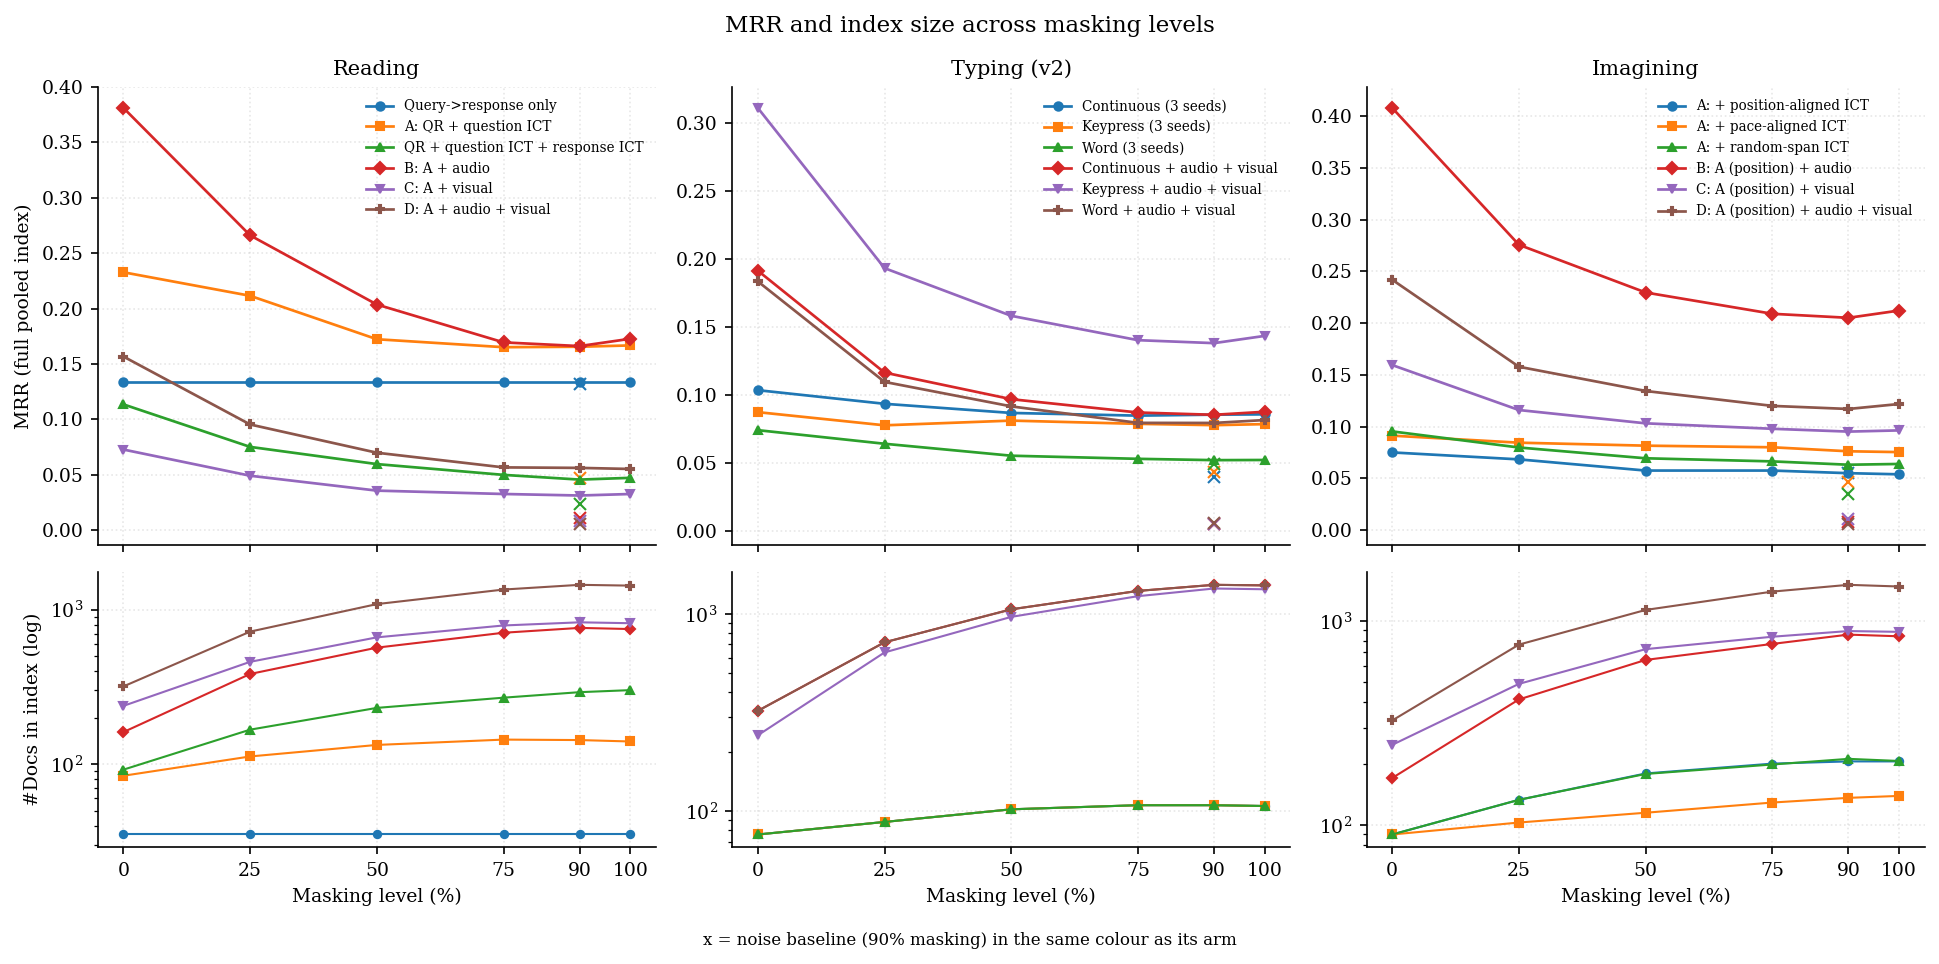
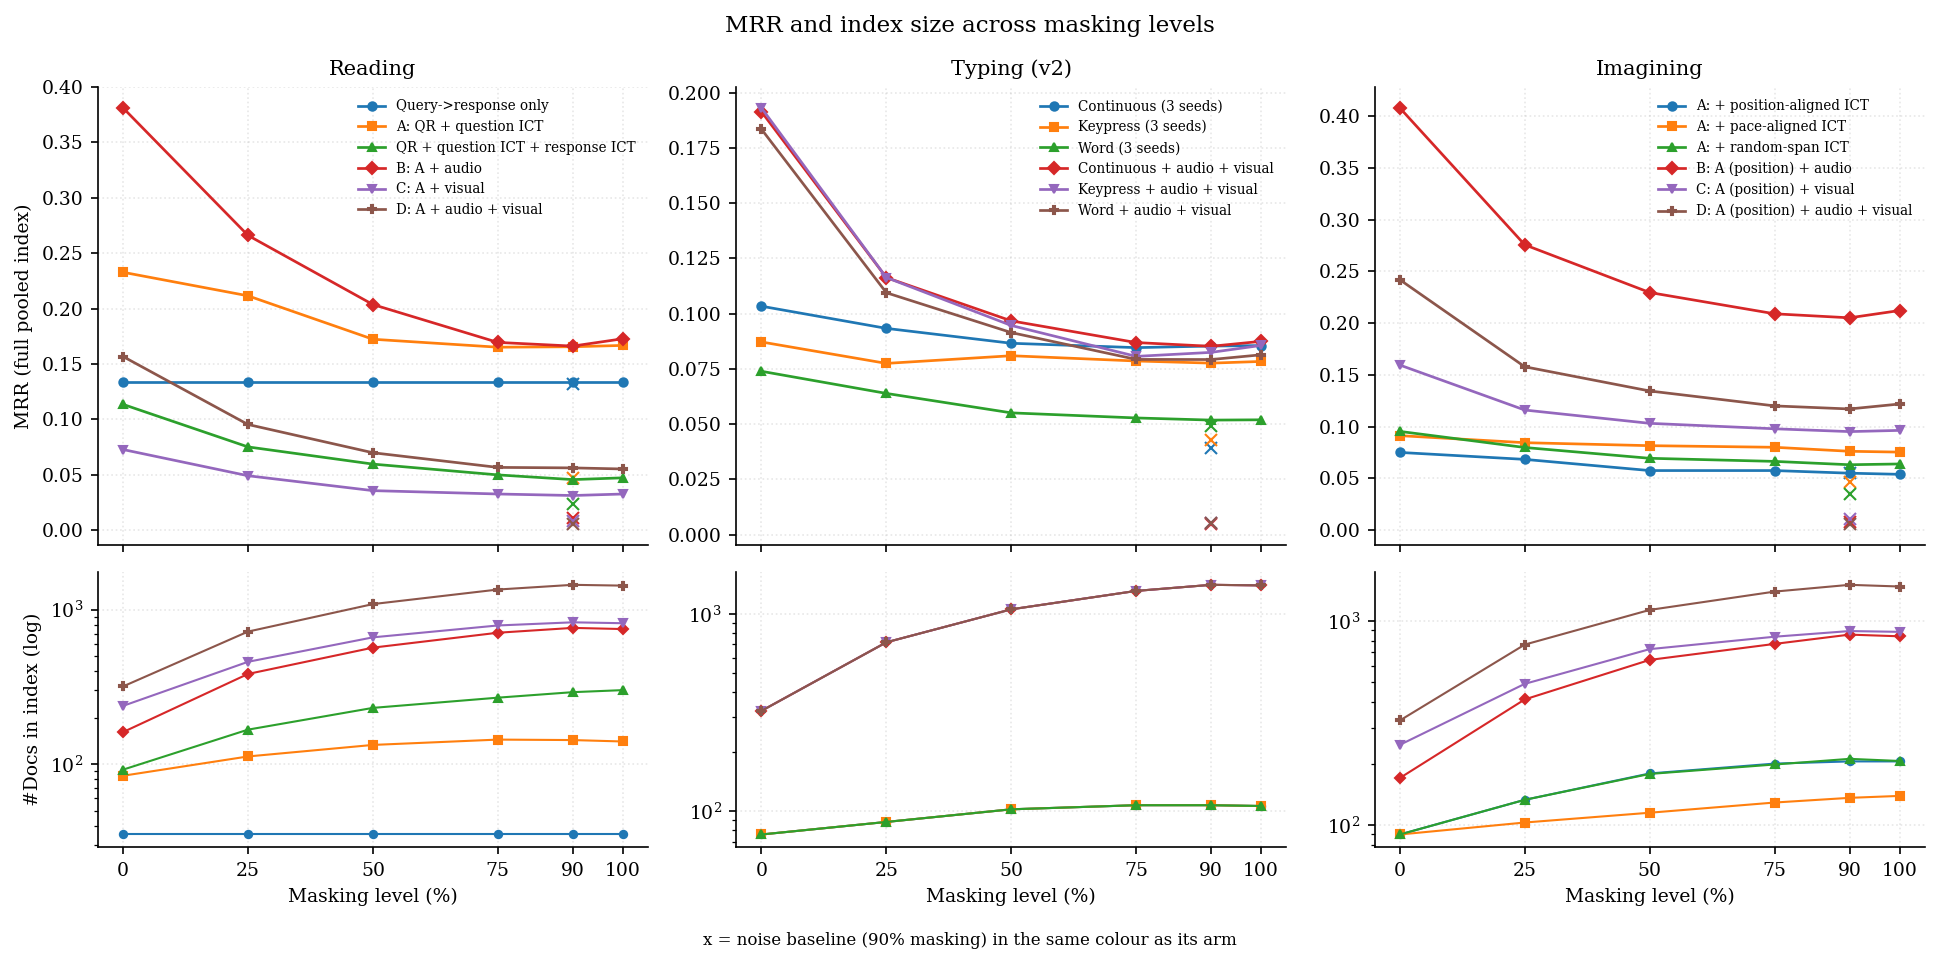
Refresh BPR summary with completed Nieuwland rerun

diff --git a/EXPERIMENT_LOG.md b/EXPERIMENT_LOG.md
@@ -578,3 +578,10 @@ Still to generate once results are in:
   - Stirling: the Neuroscan headers store a wrong sample count. It is now recomputed from the event-table position (int32 samples, 250 Hz); markers end inside the data.
   - Glasgow: BioSemi A1–D32 electrodes are now matched to the 22 channels by direction on the head (≤ 12°), which finds all 22.
 - Job `8298090` builds these three labs and writes a separate pair set, `nieuwland_all_labs_ict_pairs_{all,RUNTIME_MASKING}.npy`. The existing `nieuwland_continuous_*` file is unchanged, so the running setup jobs and the reruns stay consistent.
+
+## 2026-11-16: Pilot Queue and Remaining Retries
+
+- The GPU QoS allows at most two days per job. Foundation-model jobs were generated with a three-day limit, so `stage_scheduler.py` now requests two days for FM jobs. Existing pilot jobs `8298074`–`8298088` were updated in place and are pending with the corrected limit.
+- The two setup arms that ran out of memory during evaluation were resubmitted to 80 GB nodes as jobs `8301679` and `8301680`, with outputs isolated in `prepared_experiments_20261116_setup_oom_retries/`.
+- Glasgow's first retry (`8298090`) stopped during an incomplete OSF download. The existing partial downloads are retained; job `8301681` retries Glasgow and rebuilds the separate `nieuwland_all_labs_*` pair set if successful.
+- The findings summary and figures were regenerated after the final keypress audio+visual rerun (`8296999`). `tests/test_next_stages.py` could not run because `pytest` is not installed in the cluster environment; scheduler generation and file diagnostics passed.
